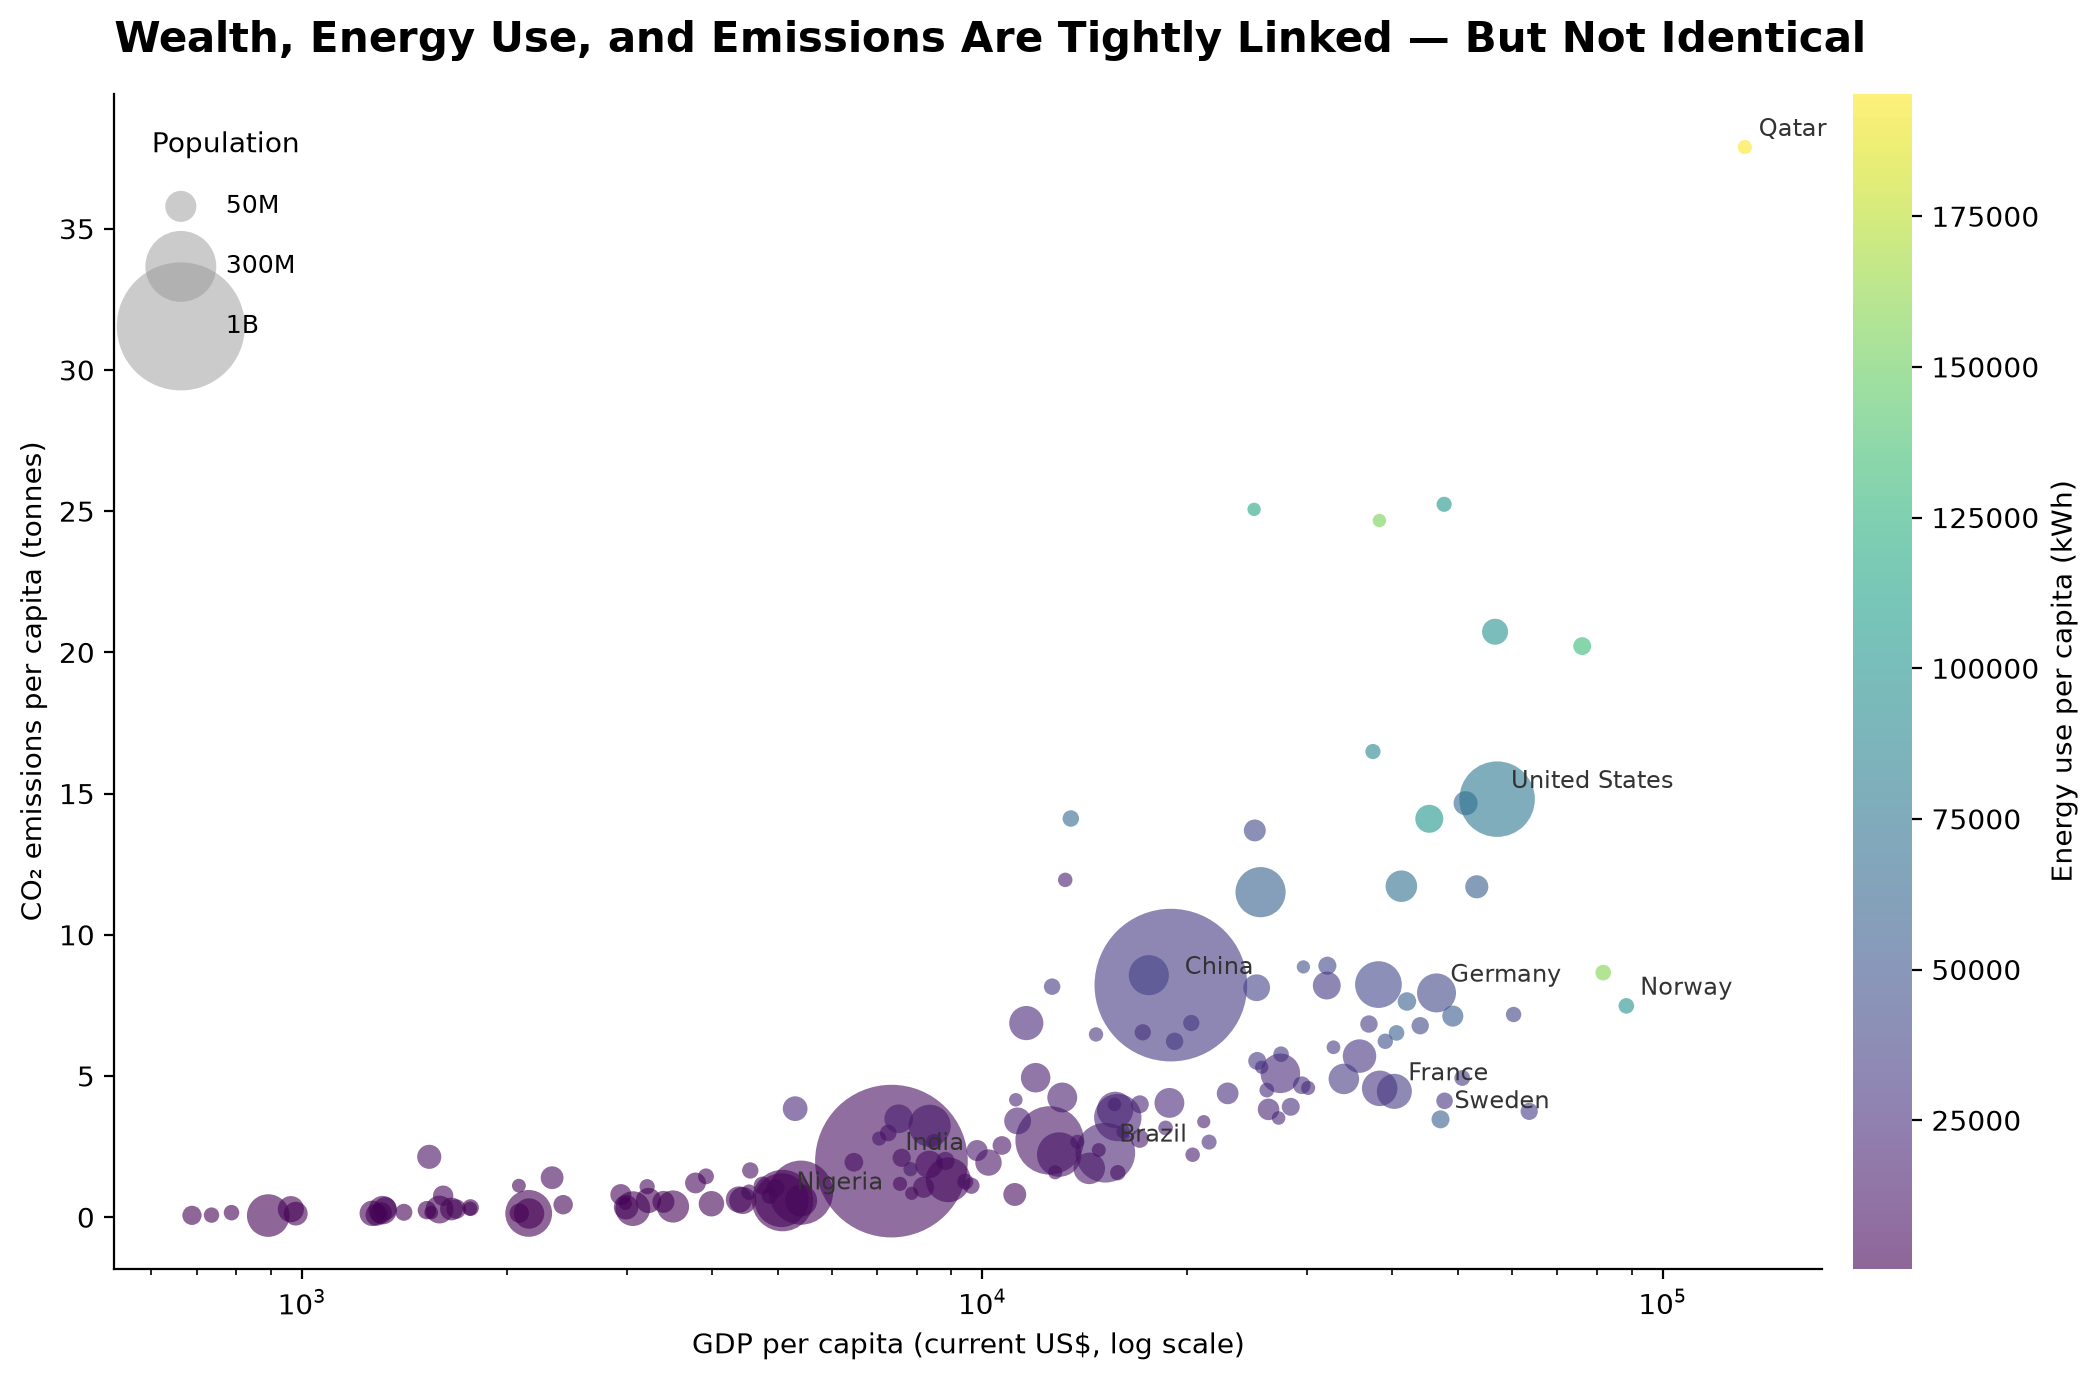
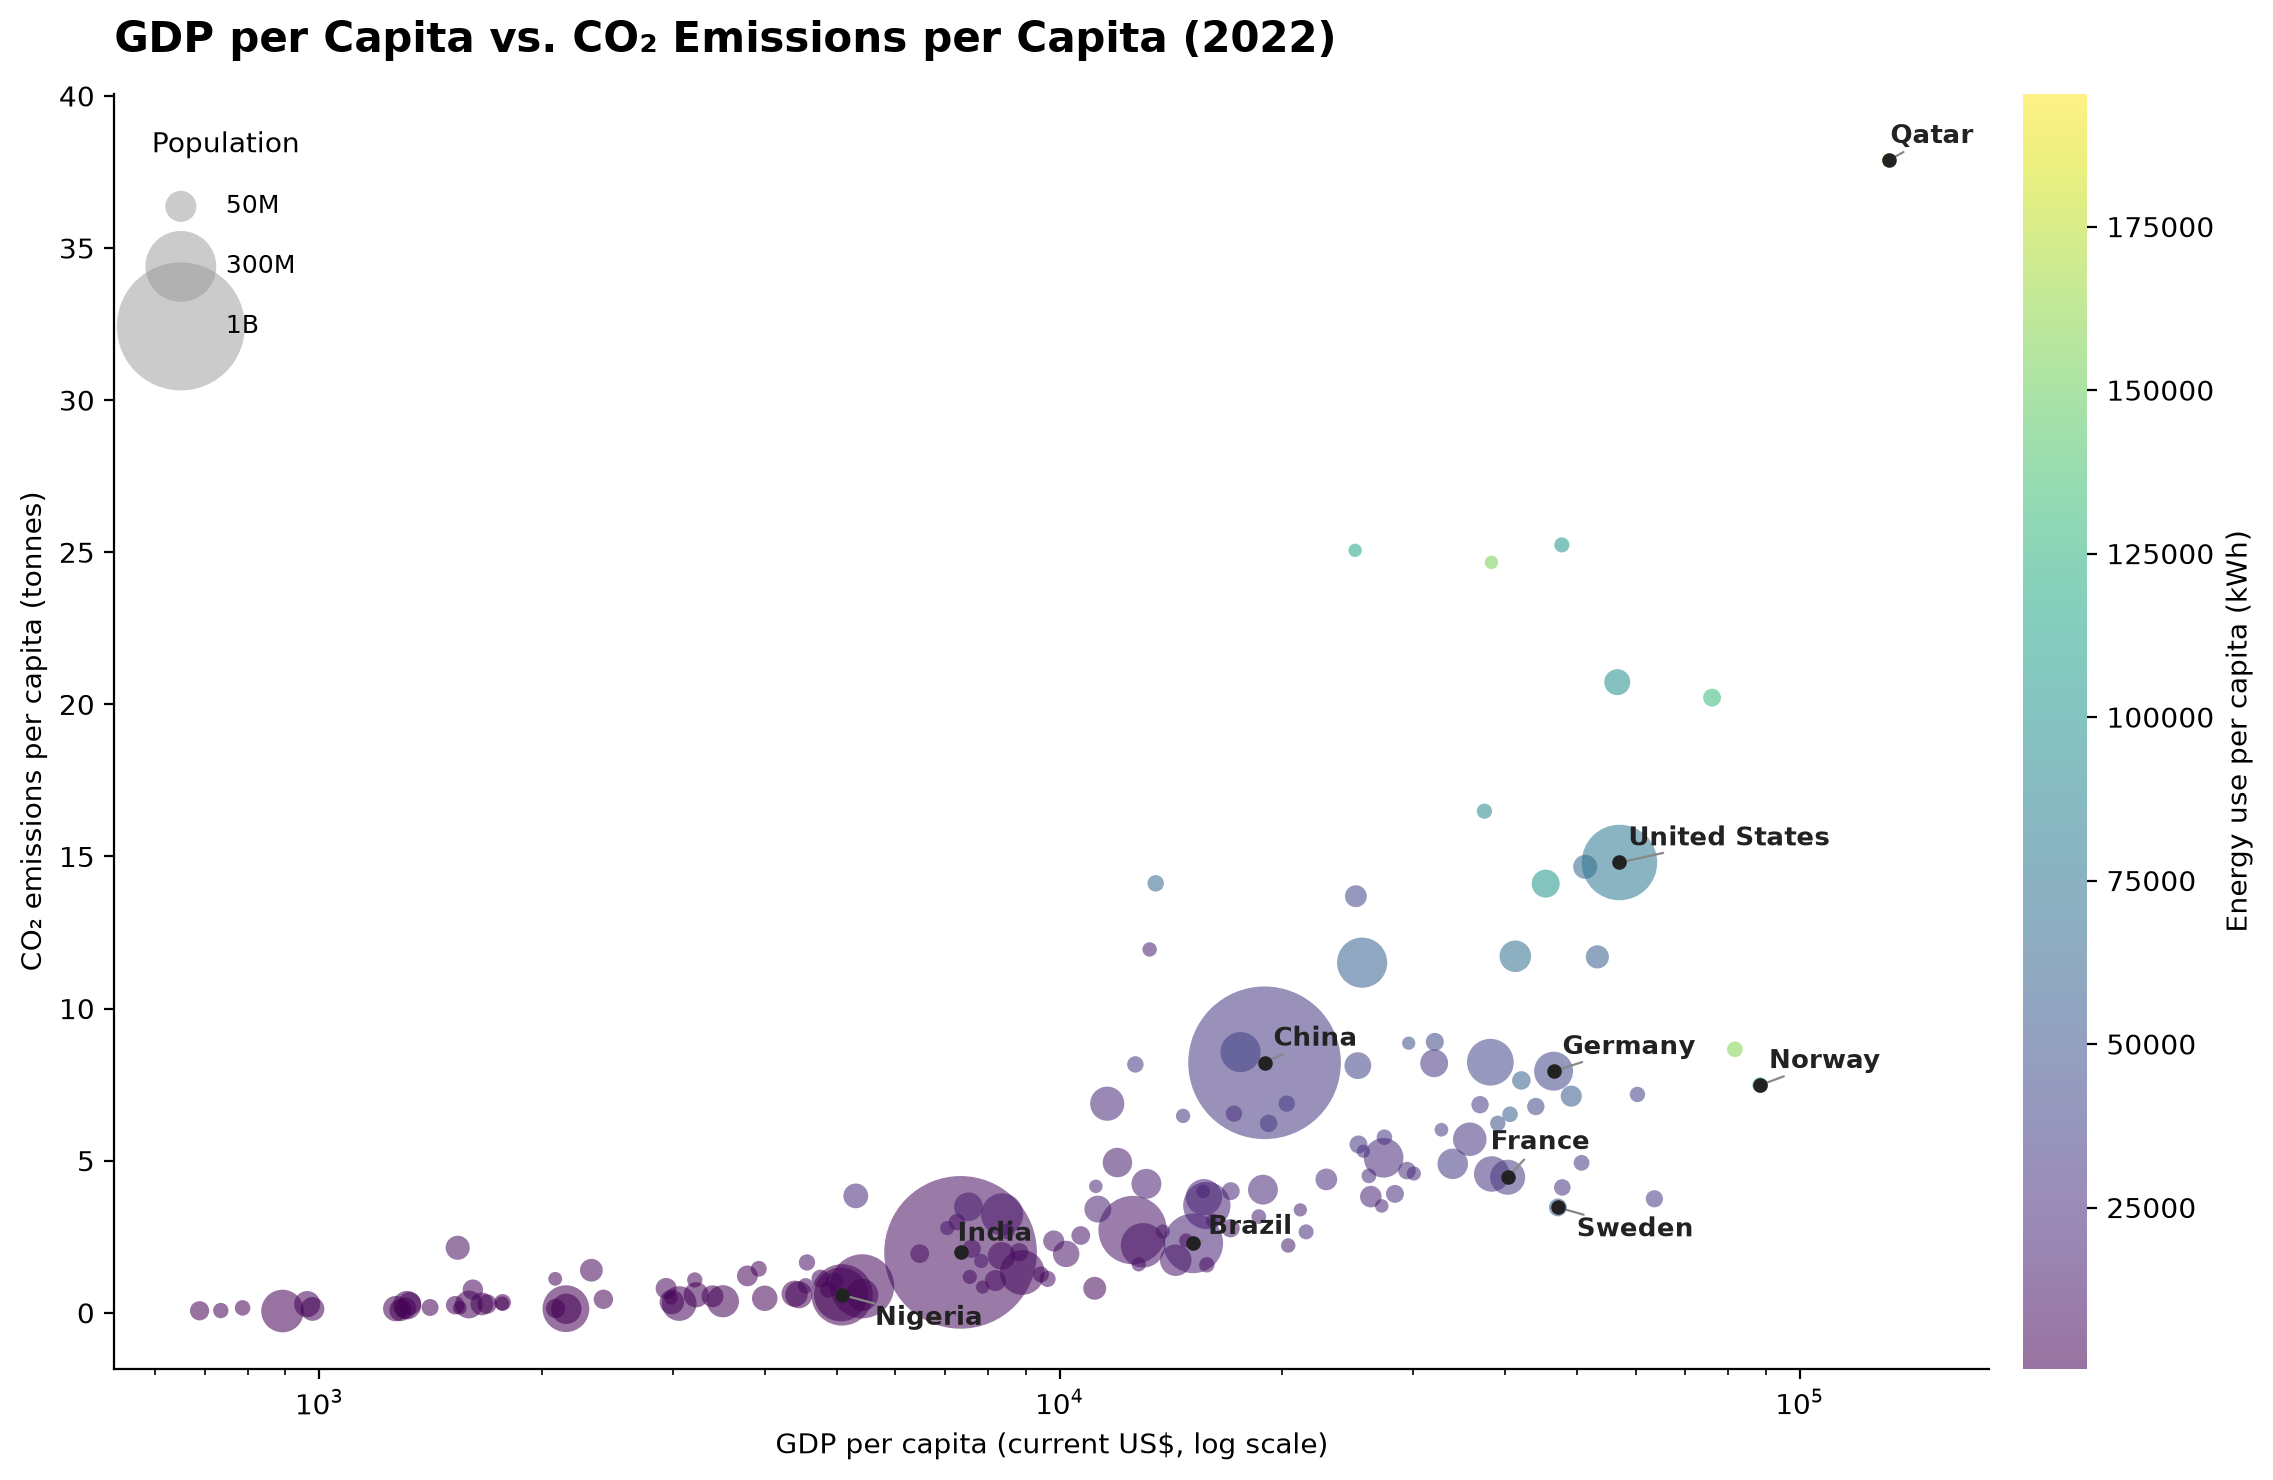
Add files via upload

diff --git a/viz3_gdp_scatter.py b/viz3_gdp_scatter.py
@@ -11,10 +11,18 @@ A true 4-variable bubble chart (stateless/OO matplotlib interface):
 Points are semi-transparent with NO outlines, since this dataset has many
 overlapping bubbles -- outlines would create visual clutter and make
 overlap regions look artificially darker/heavier than they are.
+
+Label collisions: with ~150 overlapping bubbles, simply placing a text
+label next to each highlighted country causes labels to overlap each
+other and get hidden behind nearby bubbles. We fix this with adjustText,
+which automatically repels labels away from each other and from the
+data points, then draws a thin leader line back to the true bubble
+location so the label is never ambiguous about which country it names.
 """
 import pandas as pd
 import numpy as np
 import matplotlib.pyplot as plt
+from adjustText import adjust_text
 
 df = pd.read_csv("data/co2_countries_clean.csv")
 d = df[df["year"] == 2022].copy()
@@ -22,14 +30,14 @@ d["gdp_per_capita"] = d["gdp"] / d["population"]
 d = d.dropna(subset=["gdp_per_capita", "co2_per_capita", "population", "energy_per_capita"])
 d = d[(d["population"] > 1_000_000) & (d["gdp_per_capita"] > 0)]
 
-fig, ax = plt.subplots(figsize=(11, 7), dpi=200)
+fig, ax = plt.subplots(figsize=(12, 7.5), dpi=200)
 ax.set_facecolor("white")
 fig.patch.set_facecolor("white")
 
 sizes = (d["population"] / d["population"].max()) * 3000 + 20
 sc = ax.scatter(
     d["gdp_per_capita"], d["co2_per_capita"],
-    s=sizes, alpha=0.6,
+    s=sizes, alpha=0.55,
     c=d["energy_per_capita"], cmap="viridis",
     edgecolors="none",            # <- no outlines on points
 )
@@ -37,16 +45,34 @@ sc = ax.scatter(
 ax.set_xscale("log")
 ax.set_xlabel("GDP per capita (current US$, log scale)")
 ax.set_ylabel("CO\u2082 emissions per capita (tonnes)")
-ax.set_title("Wealth, Energy Use, and Emissions Are Tightly Linked \u2014 But Not Identical",
+ax.set_title("GDP per Capita vs. CO\u2082 Emissions per Capita (2022)",
              fontsize=15, fontweight="bold", loc="left", pad=15)
 
-# Label a handful of countries that anchor the story
+# Label a handful of countries that anchor the story.
+# Each gets a small black dot marking its TRUE location, since the text
+# label itself will be pushed away from that point by adjust_text below.
 highlight = ["United States", "China", "India", "Qatar", "Germany",
              "Norway", "Nigeria", "Brazil", "France", "Sweden"]
-for _, row in d[d["country"].isin(highlight)].iterrows():
-    ax.annotate(row["country"], (row["gdp_per_capita"], row["co2_per_capita"]),
-                fontsize=8.5, color="#333333",
-                xytext=(5, 4), textcoords="offset points")
+hl = d[d["country"].isin(highlight)]
+
+ax.scatter(hl["gdp_per_capita"], hl["co2_per_capita"],
+           s=18, color="#222222", zorder=5)
+
+texts = [
+    ax.text(row["gdp_per_capita"], row["co2_per_capita"], row["country"],
+             fontsize=9.5, color="#222222", fontweight="bold", zorder=6)
+    for _, row in hl.iterrows()
+]
+
+# Push labels apart from each other and away from bubbles/markers;
+# draw a thin gray leader line from each label back to its true point.
+adjust_text(
+    texts, ax=ax,
+    x=d["gdp_per_capita"].values, y=d["co2_per_capita"].values,  # repel from ALL bubbles, not just highlighted ones
+    expand=(1.4, 1.6),
+    force_text=(0.6, 0.8),
+    arrowprops=dict(arrowstyle="-", color="#888888", lw=0.8, shrinkA=2, shrinkB=2),
+)
 
 # Clean look: no top/right spines, no gridlines, white background
 for s in ["top", "right"]: